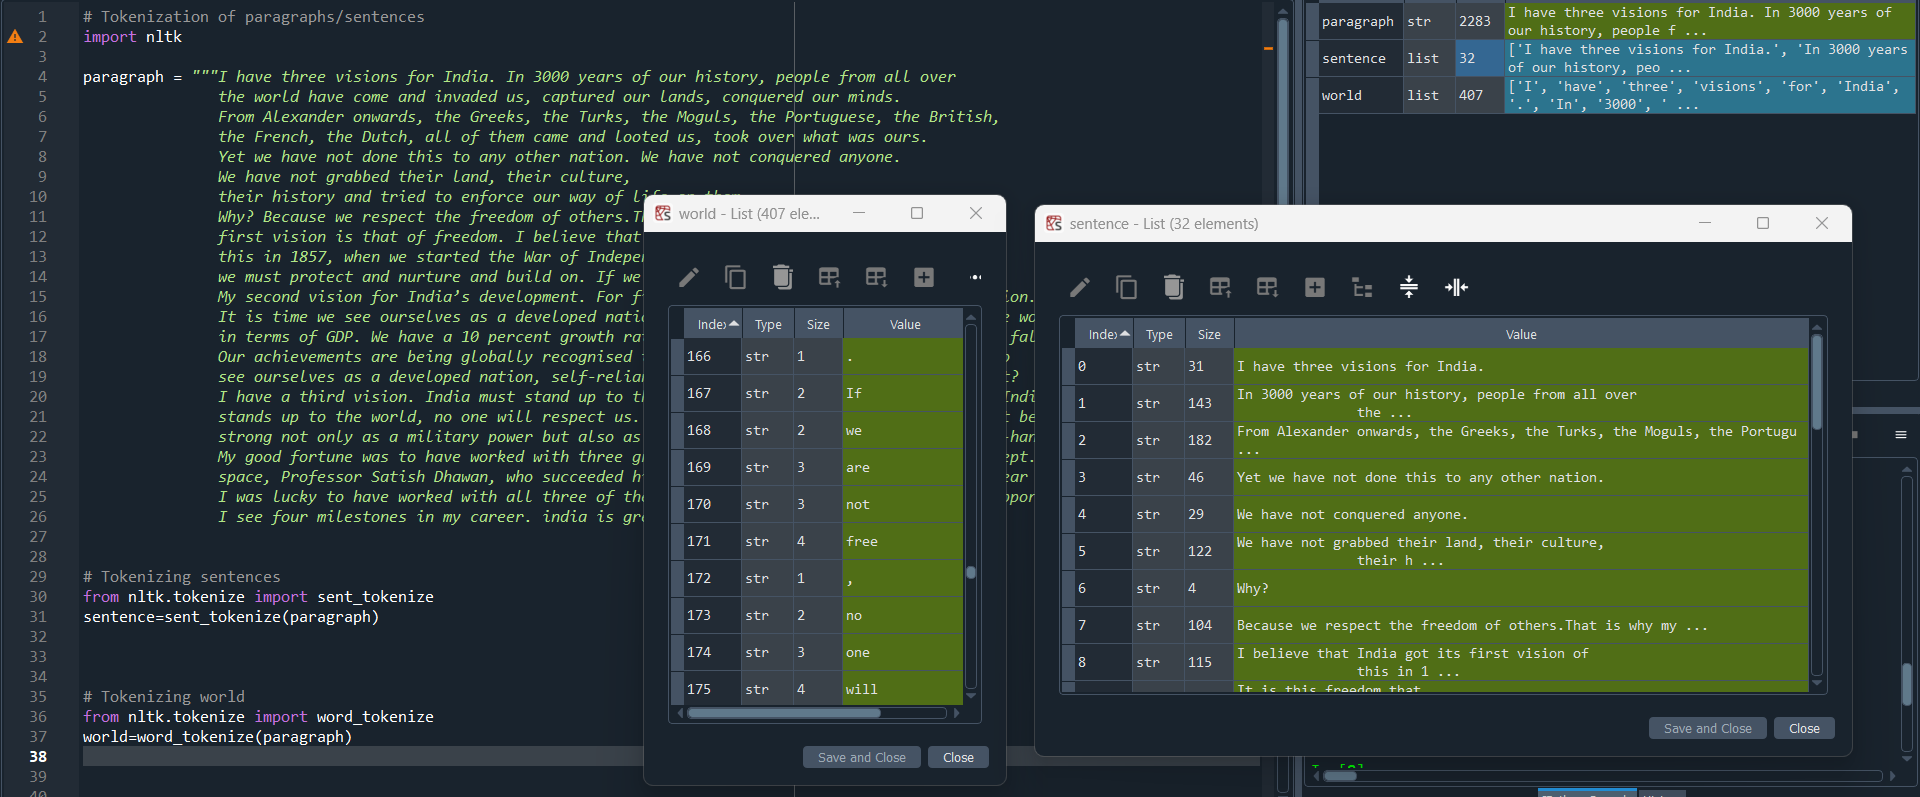
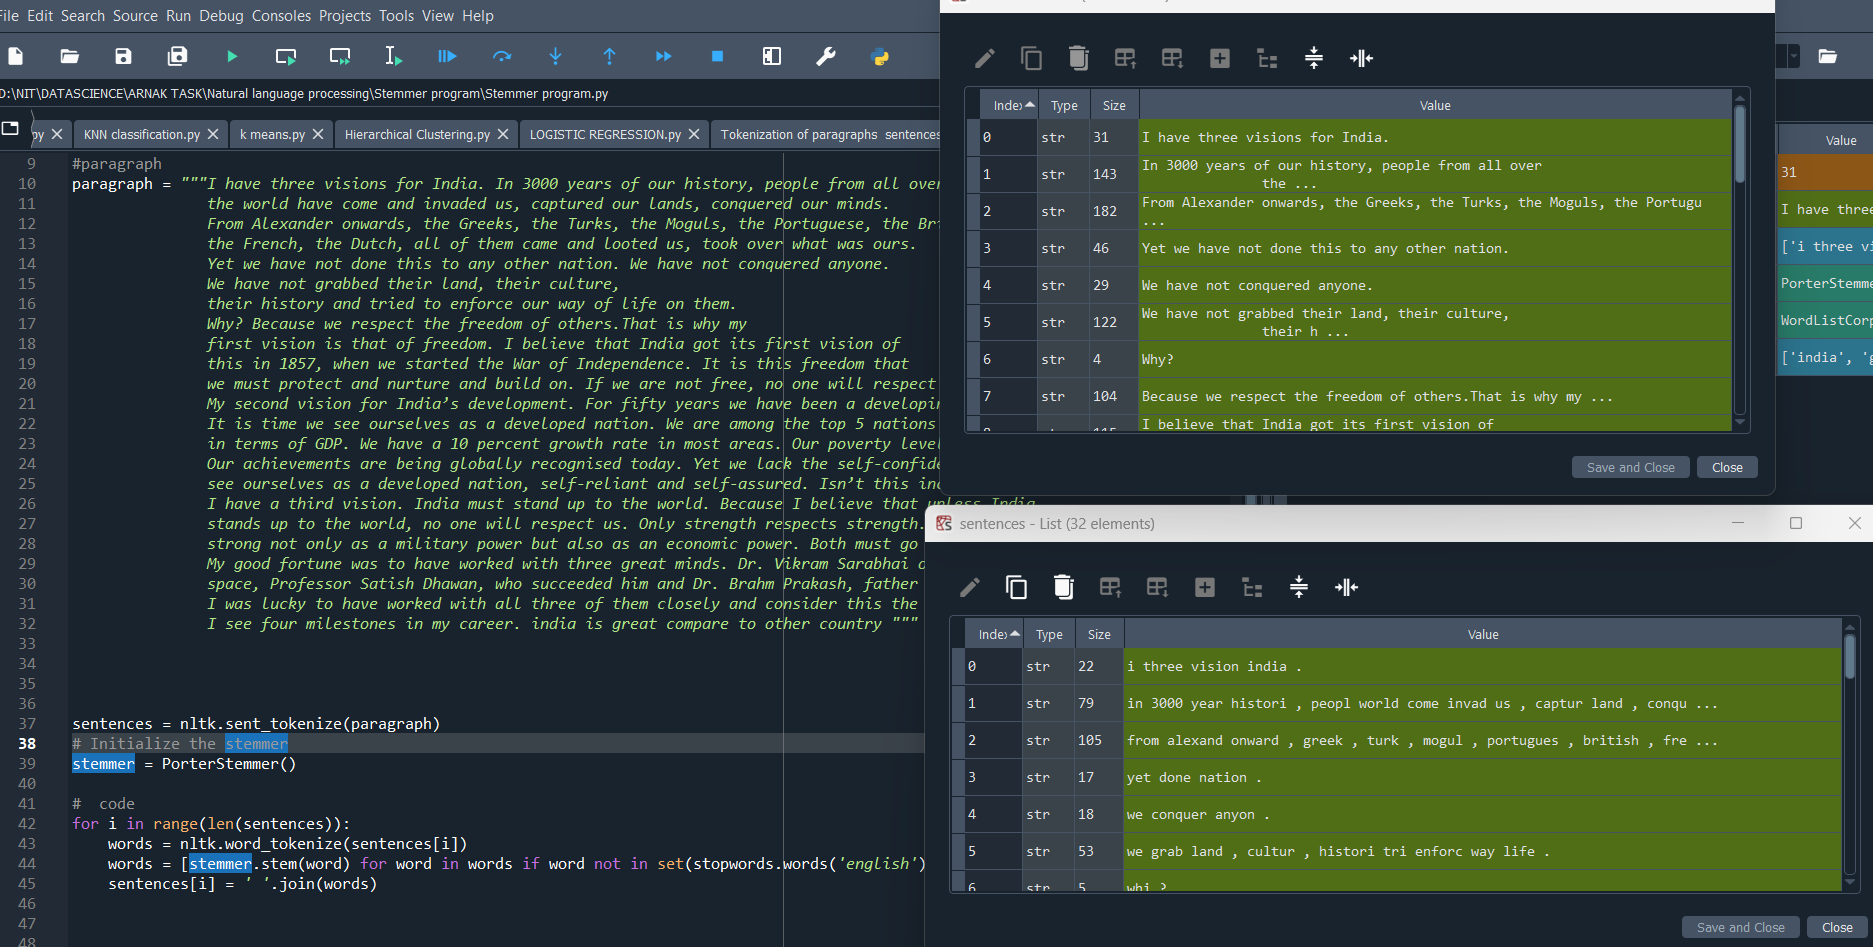
porter-Stemmer program

diff --git a/Stemmer program.py b/Stemmer program.py
@@ -1,0 +1,60 @@
+# Importing the libraries
+import nltk
+from nltk.stem import PorterStemmer
+from nltk.tokenize import sent_tokenize
+from nltk.tokenize import word_tokenize
+from nltk.corpus import stopwords
+
+
+#paragraph
+paragraph = """I have three visions for India. In 3000 years of our history, people from all over 
+               the world have come and invaded us, captured our lands, conquered our minds. 
+               From Alexander onwards, the Greeks, the Turks, the Moguls, the Portuguese, the British,
+               the French, the Dutch, all of them came and looted us, took over what was ours. 
+               Yet we have not done this to any other nation. We have not conquered anyone. 
+               We have not grabbed their land, their culture, 
+               their history and tried to enforce our way of life on them. 
+               Why? Because we respect the freedom of others.That is why my 
+               first vision is that of freedom. I believe that India got its first vision of 
+               this in 1857, when we started the War of Independence. It is this freedom that
+               we must protect and nurture and build on. If we are not free, no one will respect us.
+               My second vision for India’s development. For fifty years we have been a developing nation.
+               It is time we see ourselves as a developed nation. We are among the top 5 nations of the world
+               in terms of GDP. We have a 10 percent growth rate in most areas. Our poverty levels are falling.
+               Our achievements are being globally recognised today. Yet we lack the self-confidence to
+               see ourselves as a developed nation, self-reliant and self-assured. Isn’t this incorrect?
+               I have a third vision. India must stand up to the world. Because I believe that unless India 
+               stands up to the world, no one will respect us. Only strength respects strength. We must be 
+               strong not only as a military power but also as an economic power. Both must go hand-in-hand. 
+               My good fortune was to have worked with three great minds. Dr. Vikram Sarabhai of the Dept. of 
+               space, Professor Satish Dhawan, who succeeded him and Dr. Brahm Prakash, father of nuclear material.
+               I was lucky to have worked with all three of them closely and consider this the great opportunity of my life. 
+               I see four milestones in my career. india is great compare to other country """
+
+
+
+
+sentences = nltk.sent_tokenize(paragraph)
+# Initialize the stemmer
+stemmer = PorterStemmer()
+    
+#  code
+for i in range(len(sentences)):
+    words = nltk.word_tokenize(sentences[i])
+    words = [stemmer.stem(word) for word in words if word not in set(stopwords.words('english'))]
+    sentences[i] = ' '.join(words)  
+
+
+
+
+
+
+
+
+
+
+
+
+
+
+
